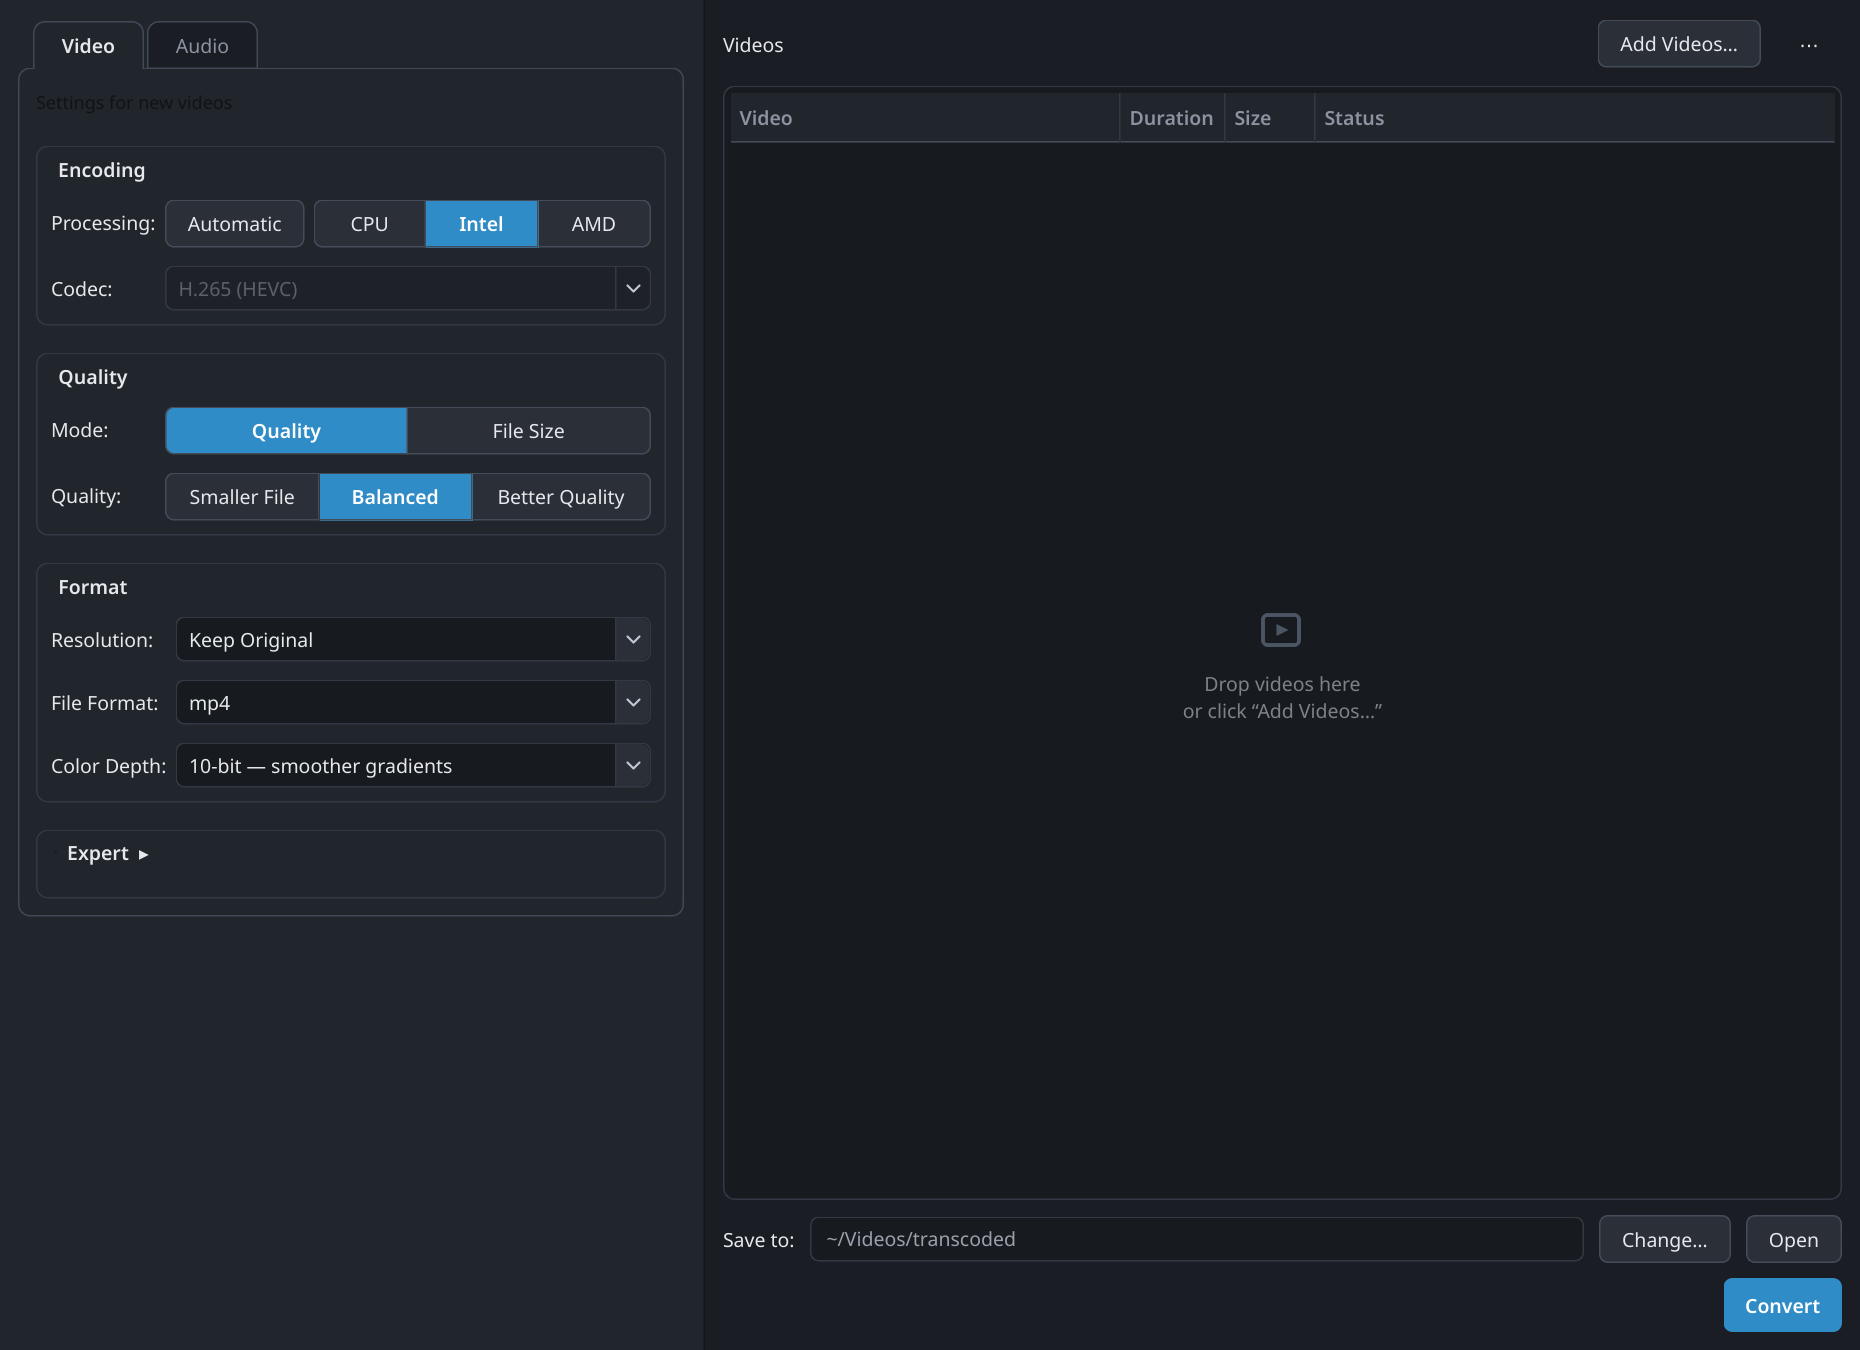
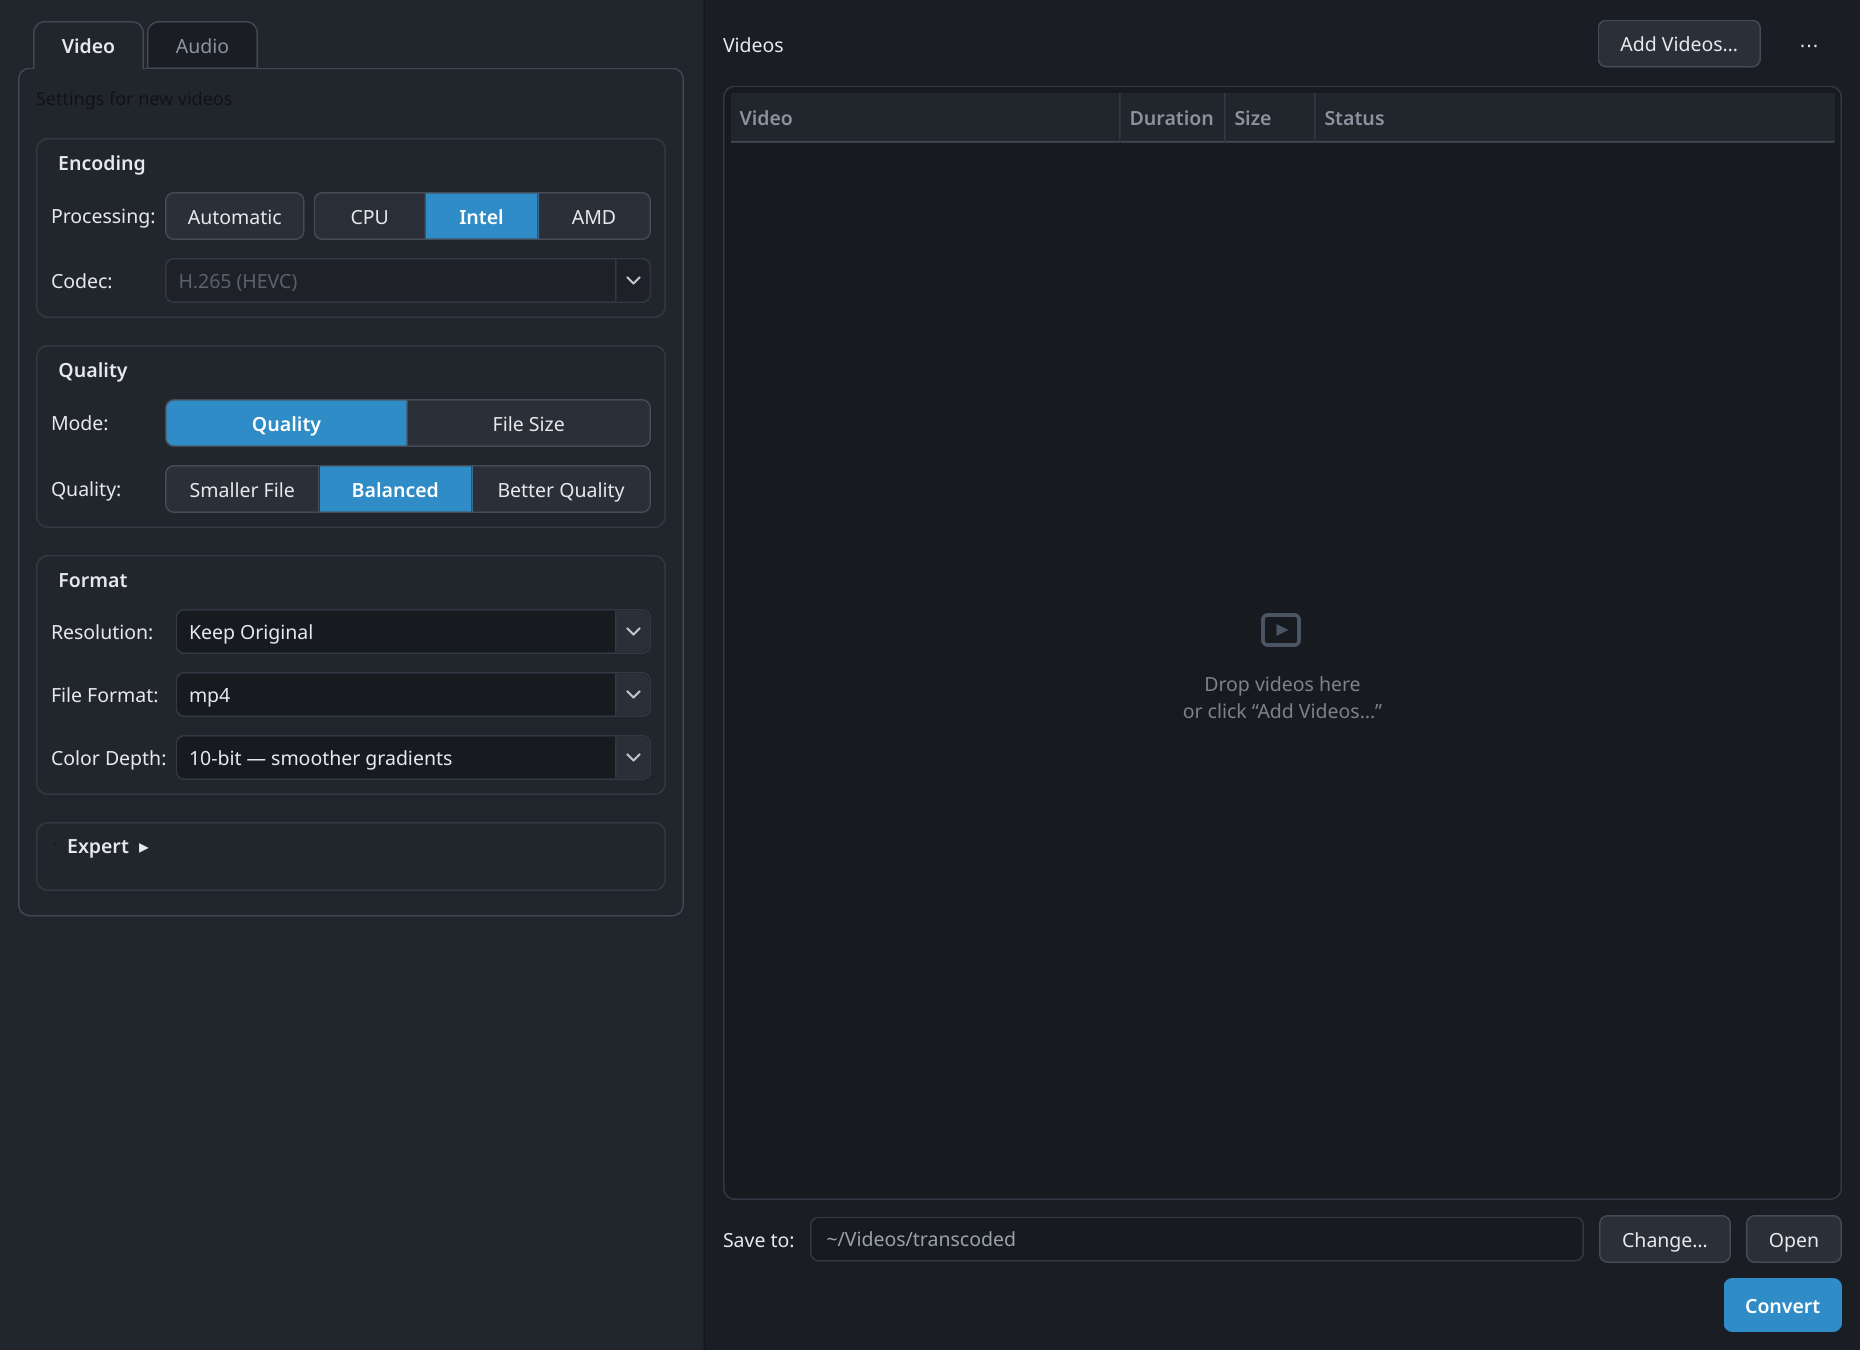
Fix Video tab's missing trailing stretch pushing Encoding out of line with Audio
Reported live again after the border-hierarchy pass, this time backed by
a real pixel measurement on the committed screenshots (146 vs 138, an
~8px difference in the 1.5x-scaled screenshot) rather than a by-eye
judgement -- so this one actually was a real bug, unlike the two false
alarms earlier in this same investigation (cross-process screenshot
comparison, then a stale running instance).

Root cause, confirmed by direct widget geometry inspection at a
1240x900 window: _build_audio_tab's outer layout ends with
outer.addStretch(), _build_video_tab's does not. Both tab pages are
forced to the same height (QStackedWidget sizes every page to the
tallest one), so both have surplus vertical space beyond their own
content's sizeHint once the window is taller than that content. Audio's
trailing stretch absorbs 100% of its surplus, leaving audio_scope_label
at its natural 17px sizeHint. Video has nowhere for its own surplus to
go but into its own items -- confirmed directly, video_scope_label
rendered at 22px against the same 17px sizeHint -- pushing every card
below it down by the difference.

Fixed by adding the same trailing addStretch() to _build_video_tab that
_build_audio_tab already had, rather than pinning either scope label's
size policy -- this also stops the surplus from unevenly inflating
Encoding/Quality/Format/Expert themselves, not just the label above
them, and matches the pattern already established on the Audio side.
[…]

diff --git a/tests/test_main.py b/tests/test_main.py
@@ -28,7 +28,7 @@ from PySide6.QtGui import (  # noqa: E402
     QColor, QDragEnterEvent, QDragLeaveEvent, QDragMoveEvent, QDropEvent, QFocusEvent, QFont,
     QFontMetrics, QPainter, QPalette, QPixmap, QWheelEvent,
 )
-from PySide6.QtWidgets import QApplication, QScrollArea, QStyleOptionViewItem, QWidget  # noqa: E402
+from PySide6.QtWidgets import QApplication, QScrollArea, QStyleOptionViewItem, QTabWidget, QWidget  # noqa: E402
 from PySide6.QtTest import QTest  # noqa: E402
 
 _app = QApplication.instance() or QApplication([])
@@ -3349,6 +3349,45 @@ class TestOnAllFinishedSummary(unittest.TestCase):
         window._on_all_finished()
         self.assertEqual(window.status_label.text(), "✓ Conversion Complete")
         self.assertEqual(window.eta_label.text(), "4 videos converted")
+
+
+class TestVideoAudioTabAlignment(unittest.TestCase):
+    """Reported live and confirmed by direct measurement: Video and Audio's
+    tab pages are forced to the same overall height (QStackedWidget sizes
+    every page to the tallest one), but only _build_audio_tab's outer
+    layout had a trailing addStretch() to absorb the resulting surplus
+    space. Video's surplus had nowhere to go but into its own items,
+    inflating video_scope_label past its own sizeHint (confirmed: rendered
+    22px vs a 17px sizeHint at a 1240x900 window) and pushing Encoding's
+    top down out of alignment with Audio's card below its own,
+    correctly-unstretched, scope label. This checks the actual geometry
+    relationship -- first card top relative to its tab page -- not one
+    magic Y coordinate, so it stays meaningful across DPI/theme/font
+    changes."""
+
+    def test_first_card_top_matches_between_video_and_audio_tabs(self):
+        window = main.MainWindow()
+        window.resize(1240, 900)
+        window.show()
+        for _ in range(5):
+            QApplication.processEvents()
+
+        video_label_bottom = window.video_scope_label.geometry().bottom()
+        encoding_group = window.video_scope_label.parentWidget().layout().itemAt(1).widget()
+        video_gap = encoding_group.geometry().top() - video_label_bottom
+
+        tabs = window.findChild(QTabWidget)
+        tabs.setCurrentIndex(1)
+        for _ in range(5):
+            QApplication.processEvents()
+
+        audio_label_bottom = window.audio_scope_label.geometry().bottom()
+        audio_group = window.audio_scope_label.parentWidget().layout().itemAt(1).widget()
+        audio_gap = audio_group.geometry().top() - audio_label_bottom
+
+        self.assertEqual(window.video_scope_label.height(), window.video_scope_label.sizeHint().height())
+        self.assertEqual(window.audio_scope_label.height(), window.audio_scope_label.sizeHint().height())
+        self.assertEqual(video_gap, audio_gap)
 
 
 class TestHideIdleStatus(unittest.TestCase):

diff --git a/ui_builder.py b/ui_builder.py
@@ -836,6 +836,16 @@ class _UiBuilderMixin:
         self.video_expert_group = self._make_collapsible_group("Expert", expert_content, expanded=False)
         outer.addWidget(self.video_expert_group)
 
+        # Without this, Video and Audio's tab pages are forced to the same
+        # height (QStackedWidget sizes every page to the tallest one) but
+        # only Audio had a trailing stretch to absorb the resulting surplus
+        # -- Video's surplus space had nowhere to go but into its own
+        # items, inflating video_scope_label past its own sizeHint (real,
+        # confirmed: rendered 22px vs a 17px sizeHint) and pushing Encoding
+        # down with it, out of alignment with Audio's card below its own,
+        # correctly unstretched, scope label.
+        outer.addStretch()
+
         return tab
 
     def _build_audio_tab(self) -> QWidget:
